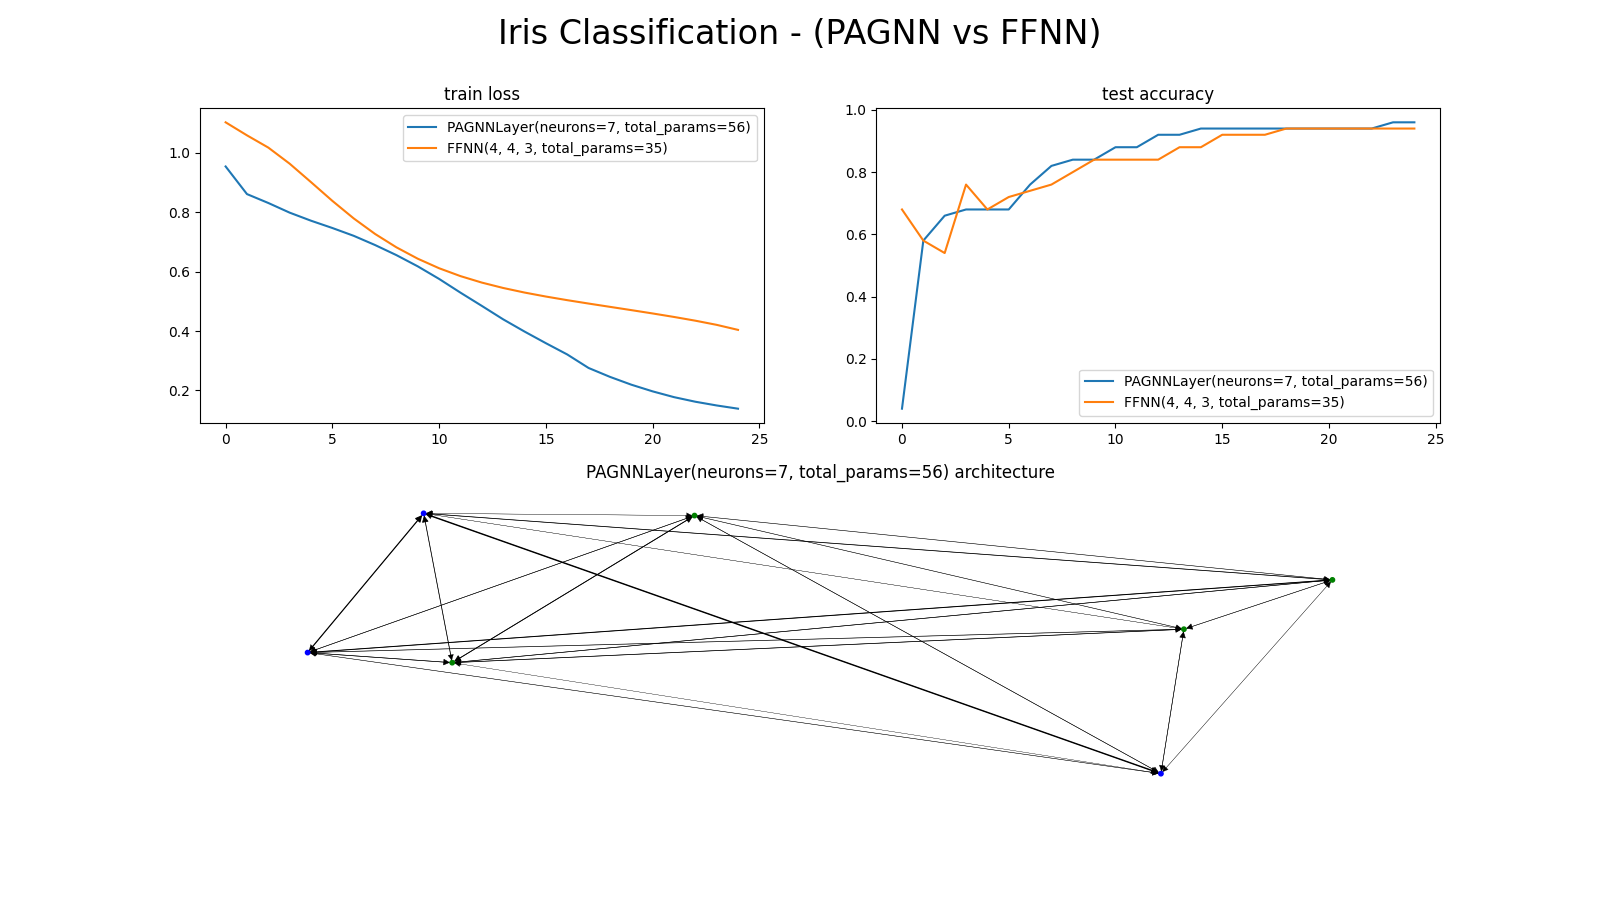
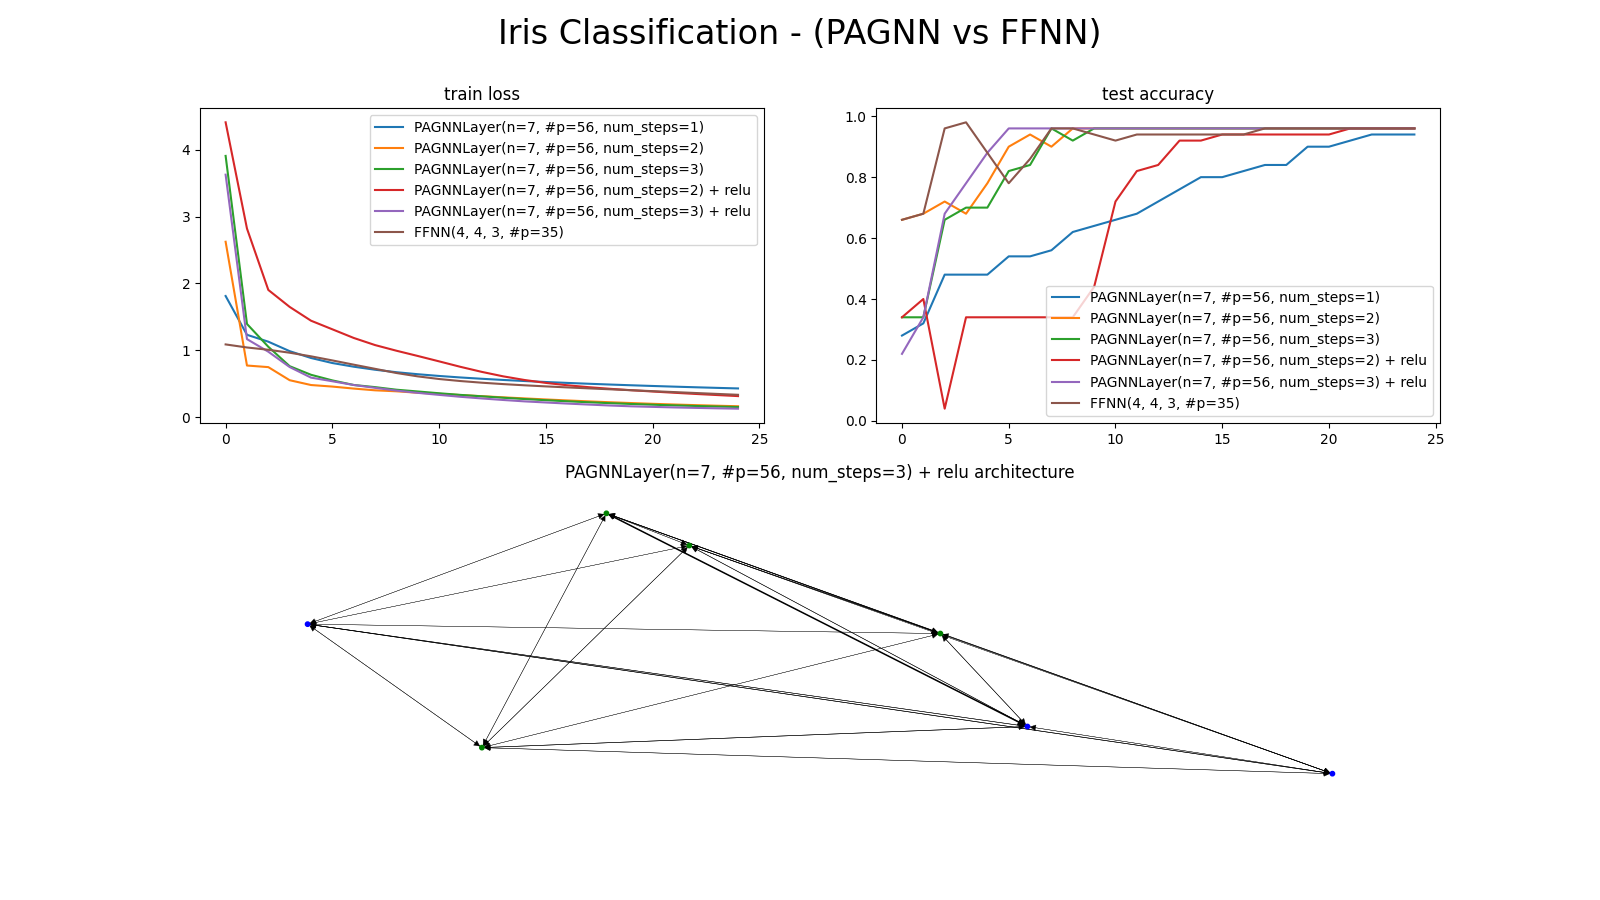
compare using relu & not

diff --git a/examples/iris_classification.py b/examples/iris_classification.py
@@ -57,17 +57,29 @@ if __name__ == '__main__':
 
     model_dicts = []
     configs = [
-        {'initial_sparsity': 0, 'num_steps': 3},
+        {'num_steps': 1, 'activation': None},
+        {'num_steps': 2, 'activation': None},
+        {'num_steps': 3, 'activation': None},
+        # {'num_steps': 1, 'activation': 'relu'}, # doesn't work
+        {'num_steps': 2, 'activation': 'relu'},
+        {'num_steps': 3, 'activation': 'relu'},
     ]
 
     for config in configs:
         pagnn_lr = 0.01
         extra_neurons = 0
         n = D + C + extra_neurons
-        pagnn_model = PAGNNLayer(D, C, extra_neurons, steps=config['num_steps'], retain_state=False, activation=F.relu) # graph_generator=nx.generators.classic.complete_graph)
+        activation_func = None
+        if config['activation'] == 'relu':
+            activation_func = F.relu
+        pagnn_model = PAGNNLayer(D, C, extra_neurons, steps=config['num_steps'], retain_state=False, activation=activation_func) # graph_generator=nx.generators.classic.complete_graph)
         pagnn_model.to(device)
+        if config['activation'] is None:
+            model_name = 'PAGNNLayer(n=%i, #p=%i, num_steps=%i)' % (n, count_params(pagnn_model), config['num_steps'])
+        else:
+            model_name = 'PAGNNLayer(n=%i, #p=%i, num_steps=%i) + %s' % (n, count_params(pagnn_model), config['num_steps'], str(config['activation']))
         pagnn = {
-            'name': 'PAGNNLayer(neurons=%i, total_params=%i)' % (n, count_params(pagnn_model)),
+            'name': model_name,
             'model': pagnn_model,
             # 'num_steps': config['num_steps'],
             'optimizer': torch.optim.Adam(pagnn_model.parameters(), lr=pagnn_lr),
@@ -79,7 +91,7 @@ if __name__ == '__main__':
     ffnn_model = FFNN(D, D, C)
     ffnn_model.to(device)
     ffnn = {
-        'name': 'FFNN(%i, %i, %i, total_params=%i)' % (D, D, C, count_params(ffnn_model)),
+        'name': 'FFNN(%i, %i, %i, #p=%i)' % (D, D, C, count_params(ffnn_model)),
         'model': ffnn_model,
         'optimizer': torch.optim.Adam(ffnn_model.parameters(), lr=ffnn_lr),
     }
